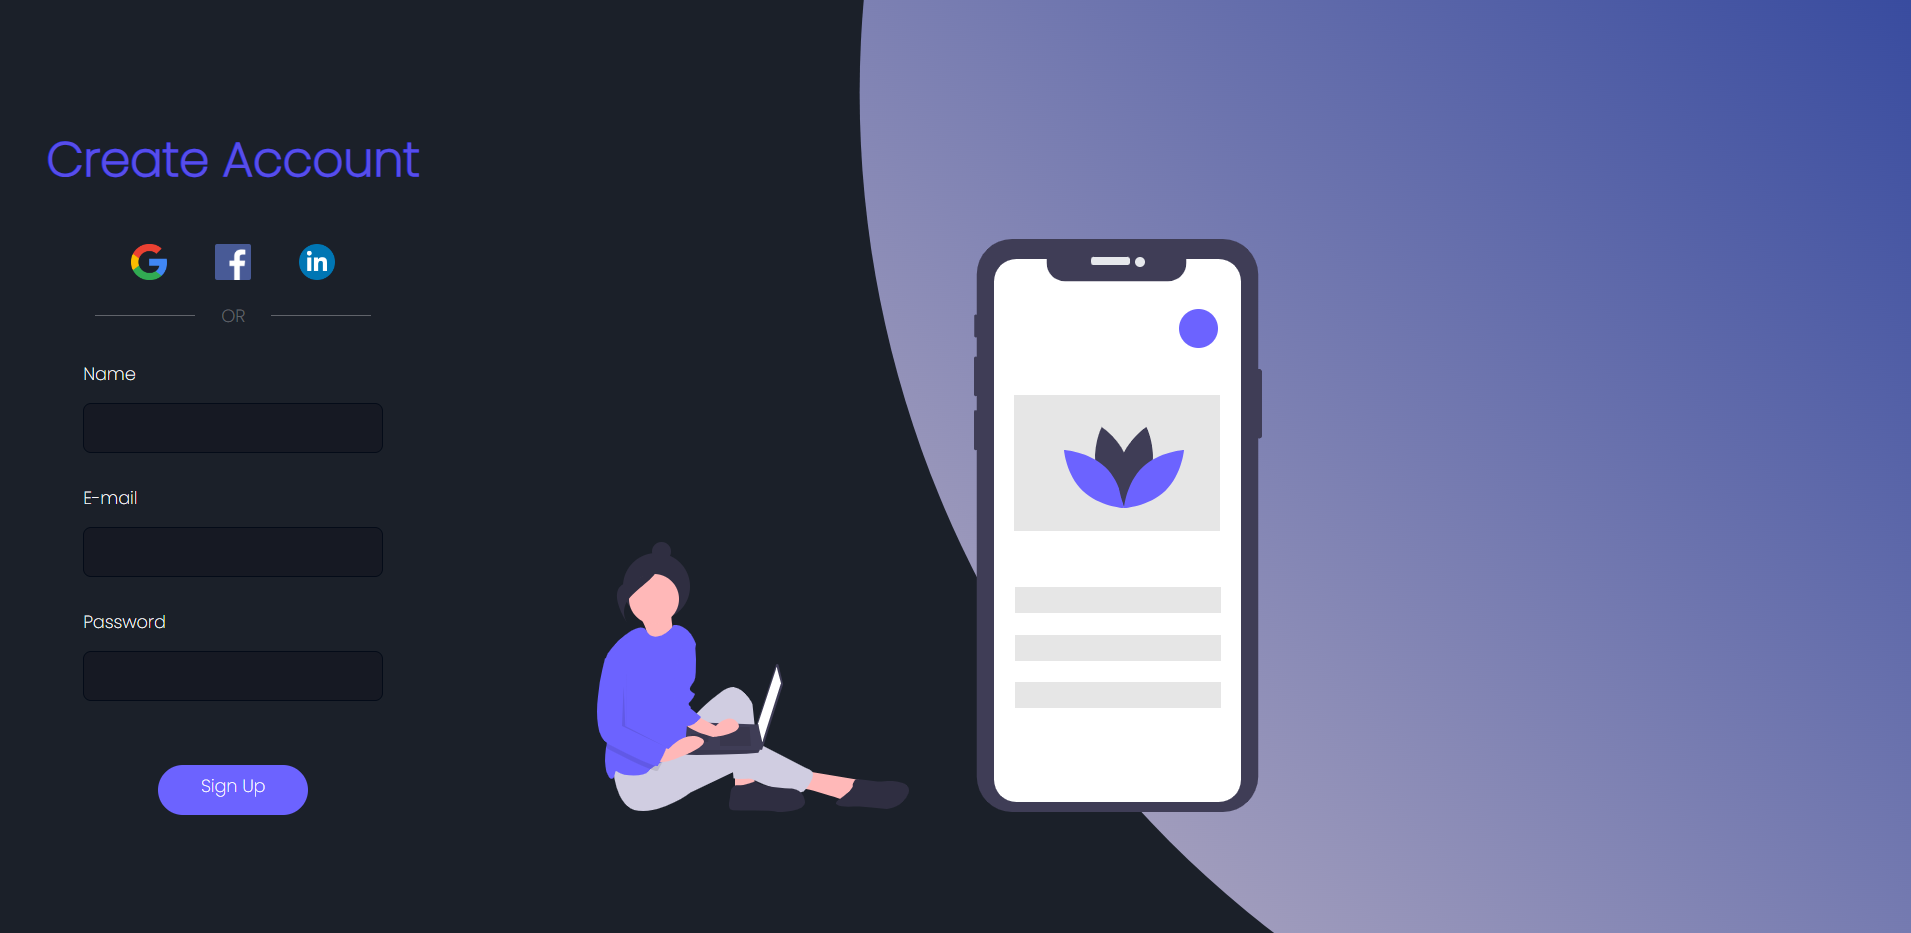
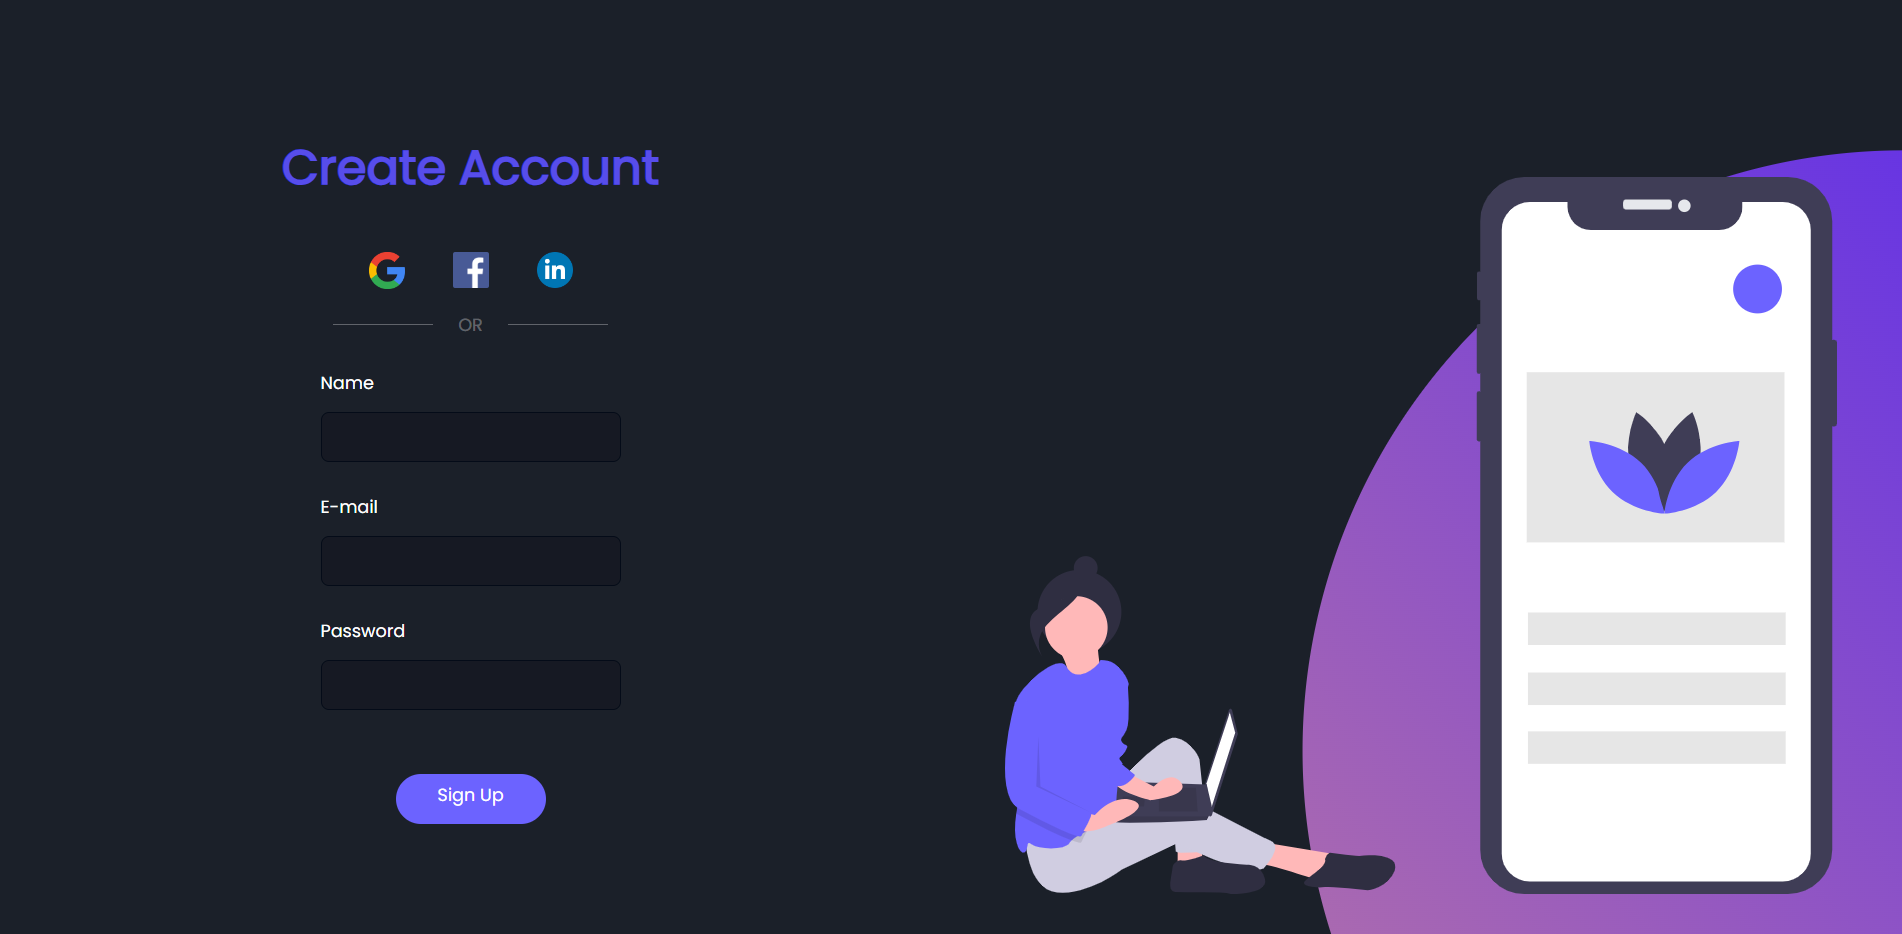
Readme change (images) + responsiveness

diff --git a/style.css b/style.css
@@ -1,5 +1,5 @@
 
-@import url('https://fonts.googleapis.com/css2?family=Inter&family=Poppins:ital,wght@0,200;1,500&display=swap');
+@import url('https://fonts.googleapis.com/css2?family=Inter&family=Poppins:ital,wght@0,200;0,400;1,500;1,700&display=swap');
 
 
 
@@ -19,15 +19,17 @@ body {
   color:white;
   font-weight: 500;
   display: flex;
-  min-height: 100vh;
+  min-height: 50vh;
+  min-height: 50vw;
 }
 
 main{
-  width: 50vh;
+  width: 100vh;
   display: flex;
   flex-direction: column;
   align-items: center;
   justify-content: center;
+  
   
 }
 
@@ -35,6 +37,7 @@ main h1 {
   color:#574deb;
   font-size: 3rem;
   margin-bottom: 3rem;
+  text-align: center;
 
 }
 
@@ -83,6 +86,7 @@ main form {
   display: flex;
   flex-direction: column;
   align-items: center;
+  
 
 }
 
@@ -130,14 +134,16 @@ main form input[ type="submit"]:hover {
 }
 
 section.images {
+  width: 50vw;
   display:flex;
   align-items: flex-end;
-  padding: 8rem;
+  justify-content: flex-end;
+  padding: 4rem;
   
 }
 
 section.images img {
-  width: 100%;
+  width: 120%;
 
 }
 
@@ -148,10 +154,42 @@ section.images .circle {
   width: 100%;
   top: 0;
   left: 0;
-  background: linear-gradient(45deg, #f2dcd4, #384b9f);
-  clip-path: circle(70% at right 10%);
+  background: linear-gradient(45deg, #ea9c80, #602fe8);
+  clip-path: circle(40% at right 80%);
   z-index: -1;
 }
 
+@media only screen and (min-width: 900px) and (max-width: 2172px) {
+  section.images .img { 
+   width: 50%;
+    
+  }
 
+  section.images circle {
+    clip-path: circle (35% at right 80%);
+  }
+}
 
+@media only screen and (max-width: 900px){
+  section.images{
+    display: none;
+    visibility: hidden;
+  }
+
+  main {
+    width: 100vw;
+  }
+}
+
+@media only screen and (max-width: 450px){
+  main h1{
+    font-size: 2rem;
+  }
+  main .alternative span {
+    font-size: 0.8rem;
+  }
+  main form label span, main form input[type="submit"]{
+    font-size: 1rem;
+  }
+
+}

diff --git a/README.md b/README.md
@@ -2,6 +2,17 @@
 
 <p align="center">
   <img alt="Sign Up form" src="./assets/capa.PNG" width="100%">
+  Desktop version.
+</p>
+
+<p align="center">
+  <img alt="Sign Up form" src="./assets/Mobile.PNG" width="50%"><br>
+  Mobile version.
+</p>
+
+<p align="center">
+  <img alt="Sign Up form" src="./assets/ipad.PNG" width="70%"> <br>
+  Mobile version (ipad).
 </p>
 
 ## 🚀 Tecnologias
@@ -14,3 +25,4 @@ The project was developed using the following technologies:
 ## 💻 Projeto
 Sign Up form with options to also login using social medias as Facebook, Google or LinkedIn.
 
+Credits: @GiovannaMoeller
